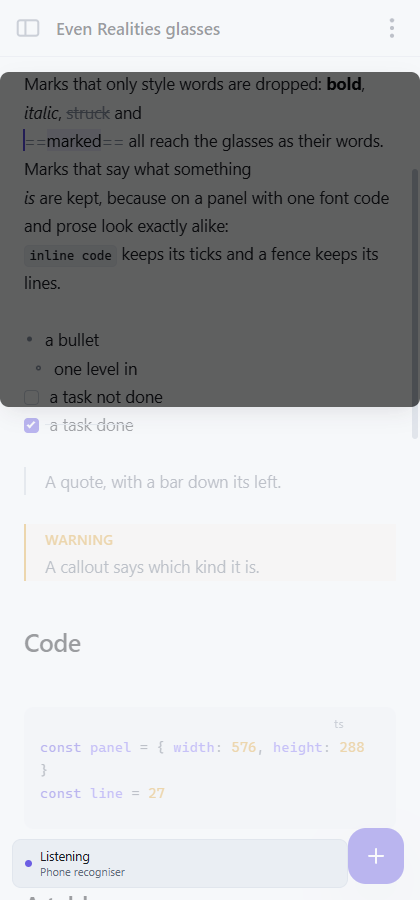
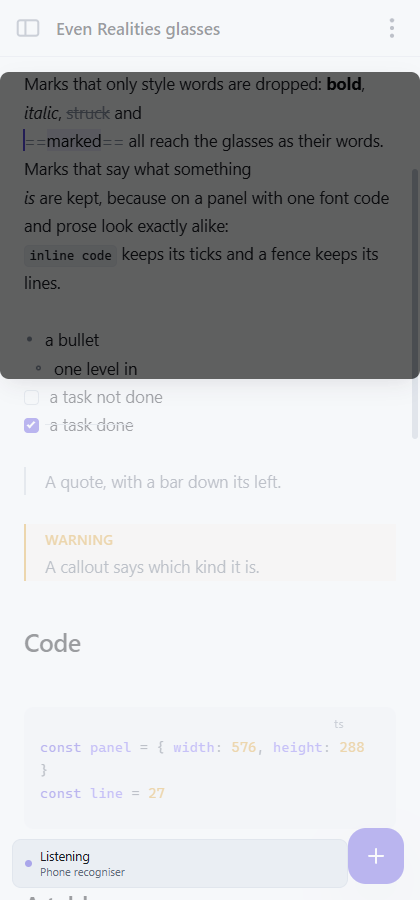
fix: a note starts at one break between blocks, not at as little as possible

Changed region(s): [[0.0, 0.4044, 1.0, 0.4667], [0.0619, 0.9333, 0.0929, 0.9644]]

diff --git a/packages/glasses/src/mark.test.ts b/packages/glasses/src/mark.test.ts
@@ -275,14 +275,23 @@ describe('nothing in a note is dropped', () => {
     expect(one('<div>block</div>')).toBe('block')
   })
 
-  test('a paragraph hard wrapped in the file is one line, not one per file line', () => {
-    // A single newline inside a paragraph is a space in markdown. Read as a break
-    // it was two lines on the panel for every wrapped paragraph in every note, both
-    // numbered with the line the paragraph started on, and the panel held half of
-    // what it should.
-    expect(lines('one two\nthree four\nfive six\n')).toEqual(['one two three four five six'])
-    expect(lines('- one two\n  three four\n')).toEqual(['• one two three four'])
-    expect(lines('> one two\n> three four\n')).toEqual(['│ one two three four'])
+  /** A single newline inside a paragraph is a space in markdown, and at the top
+   *  compaction that is what it becomes. Read as a break it was two lines on the
+   *  panel for every wrapped paragraph in every note, both numbered with the line the
+   *  paragraph started on, and the panel held half of what it should.
+   *
+   *  Asked of `aggressive` by name, because the default is `collapse` now: Emil, who
+   *  reads on a pair, would rather have the note's own breaks. See `Compaction`. */
+  test('a paragraph hard wrapped in the file is one line at the top compaction', () => {
+    const flowed = (source: string) =>
+      markLines(source, { inner: BODY_INNER, compaction: 'aggressive' }).map((one) => one.text)
+
+    expect(flowed('one two\nthree four\nfive six\n')).toEqual(['one two three four five six'])
+    expect(flowed('- one two\n  three four\n')).toEqual(['• one two three four'])
+    expect(flowed('> one two\n> three four\n')).toEqual(['│ one two three four'])
+
+    // And at the default the reader gets the lines they wrote.
+    expect(lines('one two\nthree four\n')).toEqual(['one two', 'three four'])
   })
 
   test('a hard break is two lines, the second under the words of the first', () => {

diff --git a/packages/glasses/src/mark.ts b/packages/glasses/src/mark.ts
@@ -107,6 +107,15 @@ export type Compaction = 'none' | 'collapse' | 'aggressive'
 
 export const COMPACTIONS: readonly Compaction[] = ['none', 'collapse', 'aggressive']
 
+/** What a reader who has never chosen gets: `collapse`, which is Emil's answer
+ *  having read on a pair.
+ *
+ *  It was `aggressive`, which is what the plugin did before there was a choice at
+ *  all. Said once, here, and read by the mapping, by the schema's own initial and by
+ *  the store's default, so the three cannot drift; a device that has already saved a
+ *  value keeps whatever it saved. */
+export const DEFAULT_COMPACTION: Compaction = 'collapse'
+
 export function isCompaction(value: unknown): value is Compaction {
   return typeof value === 'string' && (COMPACTIONS as readonly string[]).includes(value)
 }
@@ -117,8 +126,8 @@ export interface MarkOptions {
   inner: number
   /** Which markers to draw. The defaults above when nobody has said. */
   marks?: Marks
-  /** How much white space reaches the panel. `aggressive` when nobody has said,
-   *  which is what the plugin did before there was a choice. */
+  /** How much white space reaches the panel. `DEFAULT_COMPACTION` when nobody has
+   *  said, which is `collapse`. */
   compaction?: Compaction
   /** Whether the first level of a note is indented at all.
    *
@@ -530,7 +539,7 @@ class Sheet {
     options: MarkOptions,
   ) {
     this.marks = options.marks ?? MARKS
-    this.compaction = options.compaction ?? 'aggressive'
+    this.compaction = options.compaction ?? DEFAULT_COMPACTION
     this.flow = this.compaction === 'aggressive'
     this.rootIndent = options.rootIndent ?? false
   }

diff --git a/apps/desktop/src/lib/modes.svelte.ts b/apps/desktop/src/lib/modes.svelte.ts
@@ -28,7 +28,7 @@ import { SvelteMap } from 'svelte/reactivity'
 import { account } from './account.svelte'
 import { api, type AccountSettings } from './api'
 import { type AttachmentFolder, isAttachmentFolder } from './attachments'
-import { type Compaction, isCompaction, MARKS, type Marks } from '@nib/glasses'
+import { type Compaction, DEFAULT_COMPACTION, isCompaction, MARKS, type Marks } from '@nib/glasses'
 import { glassesKey } from './even/key.svelte'
 import { isScroll, type Scroll } from './even/scroll'
 import { type Effort, isEffort } from './even/models'
@@ -236,8 +236,9 @@ class Modes {
    *  it is turned on from the hold modal on the glasses, or here. */
   glassesVoice = $state(false)
   /** How much of a note's own white space reaches the panel; see `Compaction` in
-   *  @nib/glasses. `aggressive` is what the plugin did before there was a choice. */
-  glassesCompaction = $state<Compaction>('aggressive')
+   *  @nib/glasses. One break between blocks, which is Emil's answer having read on a
+   *  pair; the default is said once, in that package. */
+  glassesCompaction = $state<Compaction>(DEFAULT_COMPACTION)
   /** Which of a note's markers are drawn. Rule one as it stands, until a reader
    *  overrules it per construct; see `Marks` in @nib/glasses. */
   glassesMarks = $state<Marks>({ ...MARKS })

diff --git a/apps/desktop/src/lib/even/settings.test.ts b/apps/desktop/src/lib/even/settings.test.ts
@@ -1,3 +1,4 @@
+import { DEFAULT_COMPACTION } from '@nib/glasses'
 import { beforeEach, describe, expect, test, vi } from 'vitest'
 
 /** The one schema both surfaces are drawn from.
@@ -92,6 +93,18 @@ describe('every glasses setting', () => {
     for (const { id, field } of glassesSettings()) {
       expect(field.initial, id).not.toBeUndefined()
     }
+  })
+
+  /** Emil, after reading on a pair: the lines he wrote are the lines he meant. The
+   *  default is declared once, in @nib/glasses, and both the schema's initial and the
+   *  store's default read it - so a reader who has never chosen gets `collapse` and a
+   *  device that saved a value keeps it. */
+  test('starts a note at one break between blocks, not at as little as possible', () => {
+    const found = glassesSettings().find((one) => one.id === 'compaction')
+
+    expect(found?.field.initial).toBe(DEFAULT_COMPACTION)
+    expect(DEFAULT_COMPACTION).toBe('collapse')
+    expect(found?.field.get()).toBe('collapse')
   })
 
   test('is on the glasses, because all of them make sense there', () => {

diff --git a/packages/glasses/src/reading.test.ts b/packages/glasses/src/reading.test.ts
@@ -1,5 +1,12 @@
 import { describe, expect, test } from 'vitest'
-import { type Compaction, COMPACTIONS, markLines, MARKS, type Marks } from './mark'
+import {
+  type Compaction,
+  COMPACTIONS,
+  DEFAULT_COMPACTION,
+  markLines,
+  MARKS,
+  type Marks,
+} from './mark'
 import { BODY_INNER } from './panel'
 
 /* ── How much of a note's white space reaches the panel ───────────────── */
@@ -25,6 +32,13 @@ describe('compaction', () => {
       [1, 'A'],
       [5, 'B'],
     ])
+  })
+
+  /** What a reader who has never chosen gets. Said once, so the mapping, the
+   *  schema's initial and the store's default cannot drift apart. */
+  test('is what a note is set at with nobody having chosen', () => {
+    expect(DEFAULT_COMPACTION).toBe('collapse')
+    expect(markLines(A_B, { inner: BODY_INNER }).map((one) => one.text)).toEqual(['A', 'B'])
   })
 
   test('collapse keeps A, newline, B as two lines', () => {

diff --git a/apps/desktop/src/lib/even/settings.ts b/apps/desktop/src/lib/even/settings.ts
@@ -16,7 +16,7 @@
  *  other setting; the glasses draw a row with the value on the right, and a tap
  *  either flips it or opens the choices as a list like any other. */
 
-import { COMPACTIONS, type Marks } from '@nib/glasses'
+import { COMPACTIONS, DEFAULT_COMPACTION, type Marks } from '@nib/glasses'
 import { key, t } from '../i18n.svelte'
 import { modes } from '../modes.svelte'
 import type { Field, Group } from '../preferences'
@@ -144,7 +144,7 @@ export function glassesSettings(): Setting[] {
         t('Blank lines'),
         COMPACTIONS,
         COMPACTION_WORDS,
-        'aggressive',
+        DEFAULT_COMPACTION,
         () => modes.glassesCompaction,
         (value) => modes.setGlassesCompaction(value),
       ),

diff --git a/packages/glasses/src/index.ts b/packages/glasses/src/index.ts
@@ -12,6 +12,7 @@ export { fit, fold, rightward, rows, ruleOf, SPACE, spread, TICK, width, wrap } 
 export {
   type Compaction,
   COMPACTIONS,
+  DEFAULT_COMPACTION,
   isCompaction,
   type Line,
   markLines,

diff --git a/docs/even.md b/docs/even.md
@@ -391,7 +391,7 @@ columns, a picture as what it was described as, a fence line by line.
 | html | the words inside it | markup is not words |
 | front matter | not set | it is not set on a page either |
 | a link definition, an abbreviation | not set | neither is content |
-| a soft wrap inside a paragraph | a space | markdown says it is one |
+| a soft wrap inside a paragraph | a break, or a space at the top compaction | see the levels below |
 
 Line numbers are the note's own, counted from the first byte of the file with the
 front matter included, so "go to line forty" reaches the line an editor would call
@@ -411,22 +411,22 @@ each rather than one "show markdown" switch, because the answer is different for
 fence and for a bold word and that difference *is* the rule.
 
 **How much white space reaches the panel**, in three levels. Eight lines is not many
-and how they are spent is a real choice. Emil's three, in his words:
+and how they are spent is a real choice. Emil's three, in his words, against a note
+whose lines are `A`, one newline, `B` and against one with three blank lines between
+them:
 
-| Level | `A
-B` | `A
-
-
-
-B` |
+| Level | one newline | three blank lines |
 | --- | --- | --- |
 | `none` - every line break as written | two lines | two lines, three blank between |
 | `collapse` - one break between blocks | two lines | two lines, nothing between |
 | `aggressive` - as little as possible | **one line** | two lines, nothing between |
 
-`aggressive` is what the plugin did before there was a choice, and is still the
-default: markdown says a soft wrap inside a paragraph is a space, and reading it as a
-break made every hard-wrapped paragraph in every note come out as a ragged column.
+`collapse` is the default, and it is Emil's answer having read on a pair: the lines a
+reader wrote are the lines they meant. `aggressive` is what the plugin did before
+there was a choice - markdown says a soft wrap inside a paragraph is a space, and
+that is still true of it - and it is one setting away. The default is declared once,
+as `DEFAULT_COMPACTION` in `@nib/glasses`, and the mapping, the schema's initial and
+the store's default all read it; a device that has already saved a value keeps it.
 
 **A line number is the line of the file at every level.** That is the whole point of
 the numbers: a row that says 12 is line 12 of the note, whether ten of its lines were
